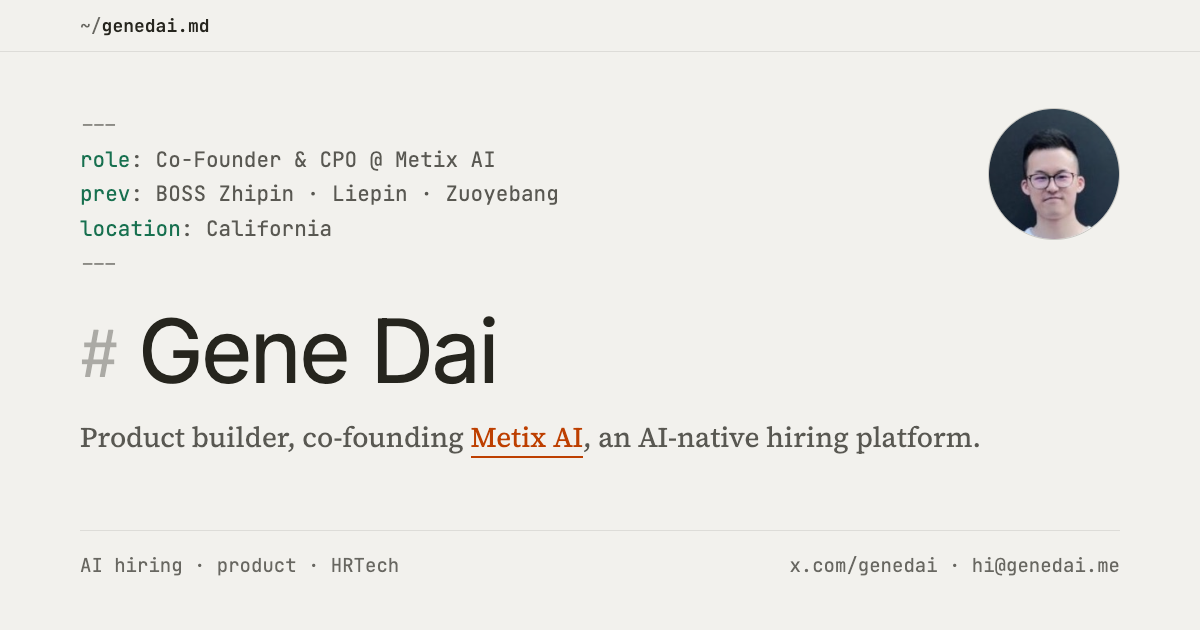
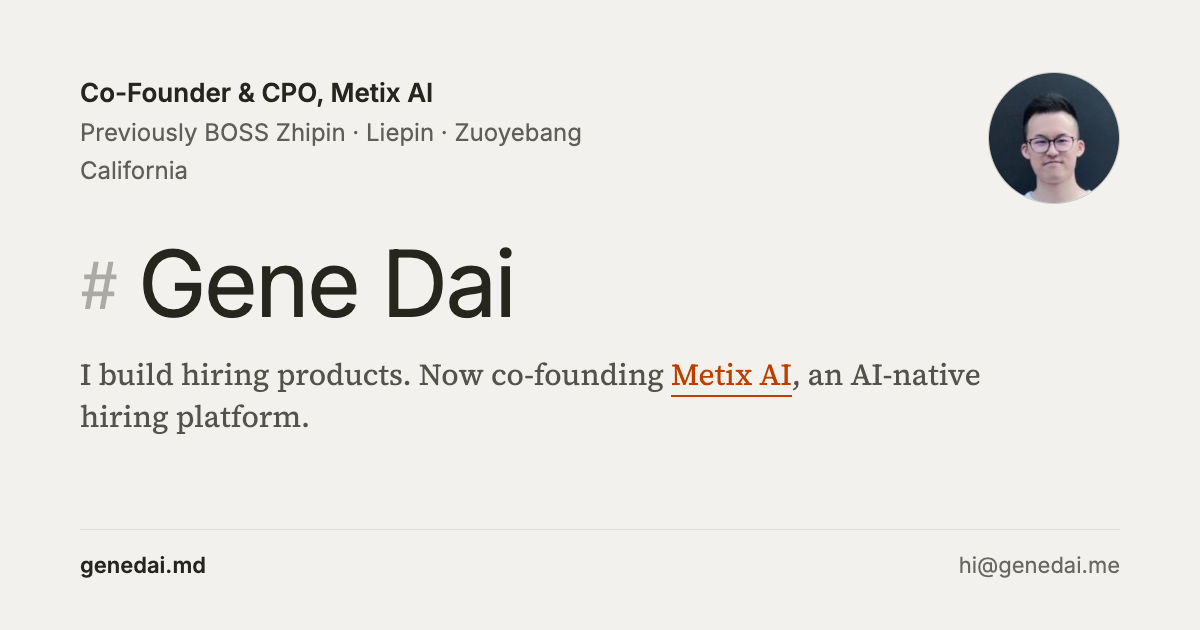
Redesign the share image and 404 page in plain language
- og-image: replace the YAML block and ~/genedai.md bar with a title,
  previous companies, and location; footer shows genedai.md and email.
  Bump the og:image URL (?v=2) so social caches fetch the new image.
- 404: "Page not found" with Home / Projects / Writing / Contact
  links instead of shell commands.

Amp-Thread-ID: https://ampcode.com/threads/T-01a1792a-400b-752e-9e97-f26619856218

diff --git a/scripts/og.html b/scripts/og.html
@@ -18,37 +18,25 @@
     background: #f2f1ed; color: #26251e; font-family: 'Inter', sans-serif;
     padding: 64px 80px; display: flex; flex-direction: column; position: relative;
   }
-  .bar {
-    position: absolute; top: 0; left: 0; right: 0; height: 52px;
-    border-bottom: 1px solid rgba(38,37,30,0.1);
-    display: flex; align-items: center; padding: 0 80px;
-    font: 18px 'JetBrains Mono', monospace; color: rgba(38,37,30,0.68);
-  }
-  .bar b { color: #26251e; font-weight: 500; }
-  .top { display: flex; justify-content: space-between; align-items: flex-start; margin-top: 44px; }
-  pre { font: 21px/1.65 'JetBrains Mono', monospace; color: rgba(38,37,30,0.75); }
-  .k { color: #17704f; }
-  .f { color: rgba(38,37,30,0.5); }
+  .top { display: flex; justify-content: space-between; align-items: flex-start; margin-top: 8px; }
+  .meta { font-size: 24px; line-height: 1.6; color: rgba(38,37,30,0.72); }
+  .meta strong { display: block; font-weight: 600; color: #26251e; font-size: 26px; }
   img { width: 132px; height: 132px; border-radius: 50%; border: 1px solid rgba(38,37,30,0.2); }
-  h1 { font-size: 88px; font-weight: 400; letter-spacing: -2.5px; margin-top: 26px; line-height: 1; }
-  h1 span { font: 400 64px 'JetBrains Mono', monospace; color: rgba(38,37,30,0.35); margin-right: 22px; vertical-align: 6px; }
-  p { font: 28px/1.4 'Source Serif 4', serif; color: rgba(38,37,30,0.75); margin-top: 22px; }
-  .foot { position: absolute; left: 80px; right: 80px; bottom: 52px; display: flex; justify-content: space-between; font: 19px 'JetBrains Mono', monospace; color: rgba(38,37,30,0.68); border-top: 1px solid rgba(38,37,30,0.1); padding-top: 22px; }
+  h1 { font-size: 92px; font-weight: 400; letter-spacing: -2.5px; margin-top: 34px; line-height: 1; }
+  h1 span { font: 400 64px 'JetBrains Mono', monospace; color: rgba(38,37,30,0.35); margin-right: 22px; vertical-align: 8px; }
+  p { font: 30px/1.4 'Source Serif 4', serif; color: rgba(38,37,30,0.78); margin-top: 24px; max-width: 980px; }
   p b { font-weight: 400; color: #bd3f00; border-bottom: 2px solid #bd3f00; }
+  .foot { position: absolute; left: 80px; right: 80px; bottom: 52px; display: flex; justify-content: space-between; font-size: 22px; color: rgba(38,37,30,0.68); border-top: 1px solid rgba(38,37,30,0.1); padding-top: 22px; }
+  .foot b { font-weight: 600; color: #26251e; }
 </style>
 </head>
 <body>
-  <div class="bar">~/<b>genedai.md</b></div>
   <div class="top">
-    <pre><span class="f">---</span>
-<span class="k">role</span>: Co-Founder &amp; CPO @ Metix AI
-<span class="k">prev</span>: BOSS Zhipin · Liepin · Zuoyebang
-<span class="k">location</span>: California
-<span class="f">---</span></pre>
+    <div class="meta"><strong>Co-Founder &amp; CPO, Metix AI</strong>Previously BOSS Zhipin · Liepin · Zuoyebang<br>California</div>
     <img src="../public/avatar.jpg" alt="">
   </div>
   <h1><span>#</span>Gene Dai</h1>
-  <p>Product builder, co-founding <b>Metix AI</b>, an AI-native hiring platform.</p>
-  <div class="foot"><span>AI hiring · product · HRTech</span><span>x.com/genedai · hi@genedai.me</span></div>
+  <p>I build hiring products. Now co-founding <b>Metix AI</b>, an AI-native hiring platform.</p>
+  <div class="foot"><b>genedai.md</b><span>hi@genedai.me</span></div>
 </body>
 </html>

diff --git a/public/404.html b/public/404.html
@@ -3,7 +3,7 @@
 <head>
   <meta charset="UTF-8" />
   <meta name="viewport" content="width=device-width, initial-scale=1.0" />
-  <title>404 — genedai.md</title>
+  <title>Page not found — Gene Dai</title>
   <meta name="robots" content="noindex" />
   <script>try{var t=localStorage.getItem('theme');if(t==='light'||t==='dark')document.documentElement.dataset.theme=t}catch(e){}</script>
   <script src="/app.js?v=23c813b1cb" defer></script>
@@ -21,21 +21,22 @@
       --accent: light-dark(#bd3f00, #ff8a4c);
       --shadow-card: rgba(0,0,0,0.14) 0px 28px 70px 0px, rgba(0,0,0,0.1) 0px 14px 32px 0px;
       --font-mono: ui-monospace, SFMono-Regular, Menlo, monospace;
+      --font-sans: system-ui, -apple-system, 'Segoe UI', sans-serif;
     }
     :root[data-theme="light"] { color-scheme: light; }
     :root[data-theme="dark"] { color-scheme: dark; }
     body {
-      font-family: var(--font-mono);
+      font-family: var(--font-sans);
       background: var(--bg); color: var(--text-primary);
       display: flex; align-items: center; justify-content: center;
       min-height: 100vh; margin: 0; padding: 24px; box-sizing: border-box;
     }
     .wrap { max-width: 420px; width: 100%; }
-    h1 { font-size: 48px; font-weight: 400; margin: 0 0 8px; }
+    .code { font: 13px var(--font-mono); color: var(--text-tertiary); margin: 0 0 8px; }
+    h1 { font-size: 36px; font-weight: 500; margin: 0 0 8px; letter-spacing: -0.5px; }
     p { color: var(--text-secondary); margin: 0 0 24px; line-height: 1.6; }
     ul { list-style: none; padding: 0; margin: 0 0 24px; border-top: 1px solid var(--border-default); }
     li { padding: 10px 0; border-bottom: 1px solid var(--border-default); }
-    li::before { content: '$ '; color: var(--text-tertiary); }
     a { color: var(--accent); text-decoration: none; }
     a:hover { text-decoration: underline; }
     kbd {
@@ -67,15 +68,16 @@
 </head>
 <body>
   <main class="wrap">
-    <h1>404</h1>
-    <p>File not found in ~/genedai.md</p>
+    <p class="code">Error 404</p>
+    <h1>Page not found</h1>
+    <p>This page doesn&rsquo;t exist or has moved.</p>
     <ul>
-      <li><a href="/">cd ~</a></li>
-      <li><a href="/#projects">ls projects/</a></li>
-      <li><a href="/#writing">ls writing/</a></li>
-      <li><a href="/genedai.md">cat genedai.md</a></li>
+      <li><a href="/">Home</a></li>
+      <li><a href="/#projects">Projects</a></li>
+      <li><a href="/#writing">Writing</a></li>
+      <li><a href="/#connect">Contact</a></li>
     </ul>
-    <p class="js-hint">Or press <kbd>⌘K</kbd> to search.</p>
+    <p class="js-hint">Or press <kbd>⌘K</kbd> (<kbd>Ctrl K</kbd> on Windows) to search.</p>
   </main>
 </body>
 </html>

diff --git a/public/index.html b/public/index.html
@@ -25,10 +25,10 @@
   <meta property="og:url" content="https://genedai.md/" />
   <meta property="og:site_name" content="genedai.md" />
   <meta property="og:locale" content="en_US" />
-  <meta property="og:image" content="https://genedai.md/og-image.png" />
+  <meta property="og:image" content="https://genedai.md/og-image.png?v=2" />
   <meta property="og:image:width" content="1200" />
   <meta property="og:image:height" content="630" />
-  <meta property="og:image:alt" content="Gene Dai — Product Builder, Co-Founder &amp; CPO @ Metix AI" />
+  <meta property="og:image:alt" content="Gene Dai — Co-Founder &amp; CPO, Metix AI. Previously BOSS Zhipin, Liepin, Zuoyebang." />
   <meta property="profile:first_name" content="Gene" />
   <meta property="profile:last_name" content="Dai" />
 
@@ -38,7 +38,7 @@
   <meta name="twitter:creator" content="@genedai" />
   <meta name="twitter:title" content="Gene Dai — Product Builder" />
   <meta name="twitter:description" content="Co-Founder &amp; CPO of Metix AI, an AI-native hiring platform." />
-  <meta name="twitter:image" content="https://genedai.md/og-image.png" />
+  <meta name="twitter:image" content="https://genedai.md/og-image.png?v=2" />
   <meta name="twitter:image:alt" content="Gene Dai — Product Builder" />
 
   <!-- Schema.org JSON-LD: Organization -->
